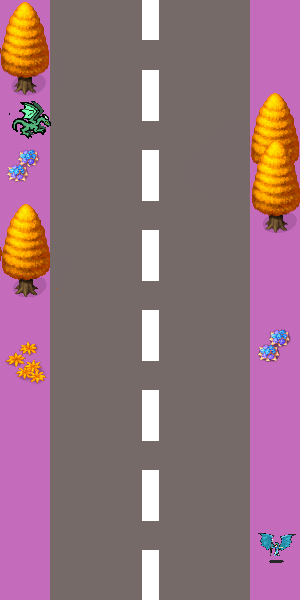
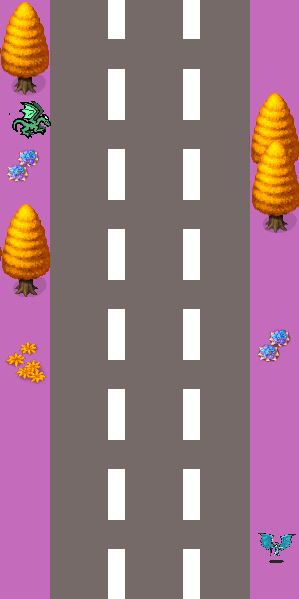
Add 3th road Change onClick to touch Change control

diff --git a/js/main.js b/js/main.js
@@ -52,30 +52,36 @@ function playGame()
     /* This is game specific code. It will be different for each game, as each game will have it own gameObjects */
 
     gameObjects[0] = new ScrollingBackgroundImage(scrollingBackgroundImage, 0,2);
-    gameObjects[1] = new StaticImage(player,130,canvas.height-100,45,45,true);
-
+    gameObjects[1] = new StaticImage(player,360,canvas.height-100,45,45,true);
+    //110 ok for left 
+    //235 ok for main pass
+    //360 ok for right
     //Bad cars
-    gameObjects[2] = new StaticImage(bad1,130,canvas.height-400,45,45,false);
-    gameObjects[3] = new StaticImage(bad2,330,canvas.height-300,45,45,false);
-    gameObjects[4] = new StaticImage(bad3,330,canvas.height-500,45,45,false);
-    gameObjects[5] = new StaticImage(bad1,330,canvas.height-180,60,45,false);
+    gameObjects[2] = new StaticImage(bad1,110,canvas.height-400,45,45,false);
+    gameObjects[3] = new StaticImage(bad2,235,canvas.height-300,45,45,false);
+    gameObjects[4] = new StaticImage(bad3,360,canvas.height-500,45,45,false);
+    gameObjects[5] = new StaticImage(bad1,110,canvas.height-180,45,45,false);
 
     //Point HUD
     gameObjects[6] = new StaticText("Point",canvas.width-85,canvas.height-80,"Impact",40,"white",0);
     gameObjects[7] = new StaticText("",canvas.width-45,canvas.height-40,"Impact",40,"white",1);
     //Fuel HUD
-    gameObjects[8] = new StaticText("Fuel",0,canvas.height-80,"Impact",40,"white",0);
+    gameObjects[8] = new StaticText("Fuel",0,canvas.height-75,"Impact",40,"white",0);
     gameObjects[9] = new StaticText("20",20,canvas.height-40,"Impact",40,"white",2);
     
     //Fuel object
-    gameObjects[10] = new StaticImage(fuel,330,canvas.height-250,64,50,false);
+    gameObjects[10] = new StaticImage(fuel,110,canvas.height-250,64,50,false);
 
     //Game Over
     gameObjects[11] = new StaticText("",STATIC_TEXT_CENTRE,canvas.height/2,"Impact",40,"red",false);
 
-
     // make the canvas wider for this example
-    document.getElementById("gameCanvas").style.width = "300px";
+    document.getElementById("gameCanvas").style.width = "320px";
+	document.getElementById("gameCanvas").addEventListener("touchstart", function(e) {
+        gameObjects[1].movePlayer(e.touches[0].clientX)
+      }, false);
+      
+   
     /* END OF game specific code. */
 
     /* Always create a game that uses the gameObject array */
@@ -87,8 +93,3 @@ function playGame()
     
     /* If they are needed, then include any game-specific mouse and keyboard listners */
 }
-
-function clickScreen(){
-    gameObjects[1].movePlayer()
-}
-

diff --git a/js/StaticImage.js b/js/StaticImage.js
@@ -34,24 +34,46 @@ class StaticImage extends GameObject
         ctx.drawImage(this.image, this.x, this.y, this.width, this.height);
     }
 
-    movePlayer(){
-        if(this.flag == true){
+    movePlayer(positionX){
+
+        var actualCarX = this.x
+        if(positionX <= (canvas.width / 2)){ //go left
+            if(actualCarX == 235){
+                this.x = 110;
+            }else if(actualCarX == 360){
+                this.x = 235;
+            }
+        }else{//go right
+            if(actualCarX == 235){
+                this.x = 360;
+            }else if(actualCarX == 110){
+                this.x = 235;
+            }
+        }
+
+       /* if(this.flag == true){
             this.flag = false
             this.x=330
         }else{
             this.flag = true
             this.x=130
-        }
+        }*/
     }
 
     randomSet(){
-        var side = Math.floor((Math.random()*2))
+        var side = Math.floor((Math.random()*3))
 
-        if(side==1){
-            this.x = 130
-        }
-        else{
-            this.x = 330
+        switch (side){
+            case 1:
+                this.x = 110
+                break
+            case 2:
+                this.x = 235
+                break
+            case 3:
+                this.x = 360
+                break
+            
         }
 
     }

diff --git a/index.html b/index.html
@@ -30,14 +30,10 @@
 
     <body>
         <div id="gameContainer"> <!-- having a container will allow us to have a game that includes elements that are outside of the canvas -->
-            <canvas id="gameCanvas" tabindex="1" onclick="clickScreen()"></canvas>
+            <canvas id="gameCanvas" tabindex="1">
+            </canvas>
 
-            <!-- ***************************************************************************** -->
-            <!-- *************** THE CODE BELOW CAN BE DIFFERENT FOR EACH GAME *************** -->
-
-
-            <!-- ************************* END OF GAME SPECIFIC CODE ************************* -->
-            <!-- ***************************************************************************** -->
+            
         </div>
     </body>
 </html>

diff --git a/css/game.css b/css/game.css
@@ -11,7 +11,7 @@
     /* the canvas styling usually does not change */
     outline:1px solid darkgrey;
     width:500px;
-    height:500px;
+    height:568px;
 }
 
 #loadingMessage
@@ -22,4 +22,18 @@
     left:100px;
     z-index:100;
     font-size:50px;
+}
+
+#leftPad
+{
+    height:284px;
+    width:160px;
+    background-color: blue;
+}
+
+#rightPad
+{
+    height:284px;
+    width:160px;
+    background-color: red;
 }

diff --git a/js/CanvasGame.js b/js/CanvasGame.js
@@ -70,7 +70,7 @@ class CanvasGame
                 }
                 gameObjects[11].setText("Game Over");
                 gameObjects[11].centerText();
-            }
+            } 
         }
         if(((gameObjects[10].x-gameObjects[1].x > -5 && gameObjects[10].x-gameObjects[1].x < 5) && (gameObjects[10].y-gameObjects[1].y > -5 && gameObjects[10].y-gameObjects[1].y < 5))){
             gameObjects[9].setValue(1);
